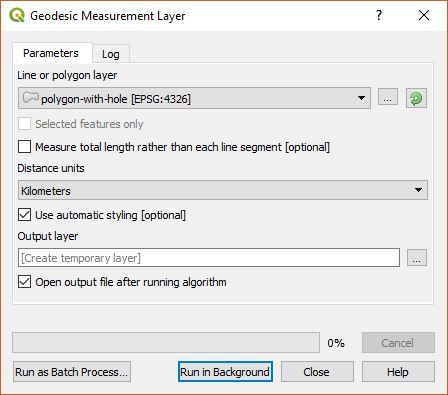
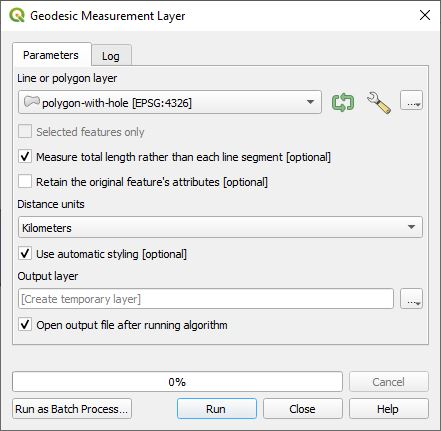
Allow measurement layer to retain attributes.

Changed region(s): [[0.0, 0.0, 1.0, 1.0]]

diff --git a/geodesicLayerMeasure.py b/geodesicLayerMeasure.py
@@ -54,7 +54,7 @@ class GeodesicLayerMeasureAlgorithm(QgsProcessingAlgorithm):
         self.addParameter(
             QgsProcessingParameterBoolean(
                 self.PrmRetainAttributes,
-                tr('Retain the original source feature attributes'),
+                tr("Retain the original feature's attributes"),
                 False,
                 optional=True)
         )
